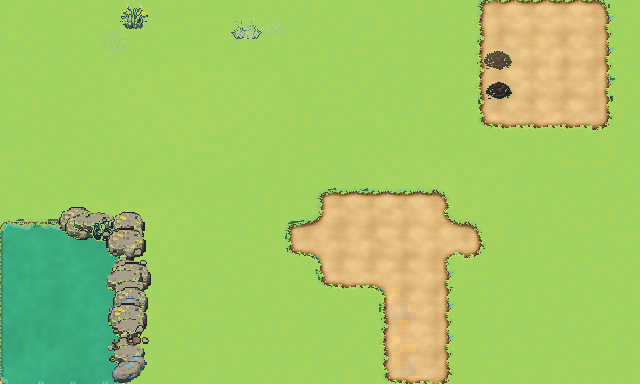
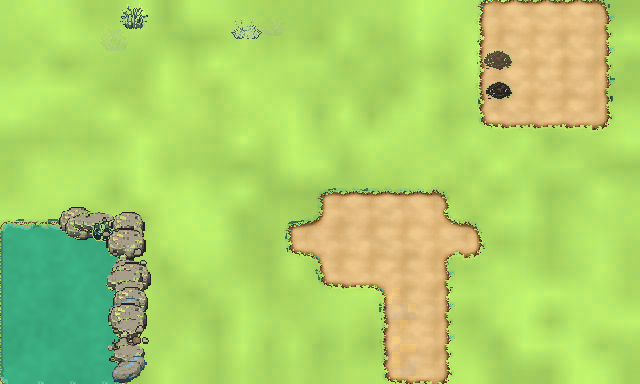
Grass: sun-pool dapple — the ref's greeny-yellow is a value SPREAD
The ref field isn't a brighter flat color: lit grass swings to
(217,242,102) near-yellow-white while shade stays deep. Our grass
was a compressed mid-lime.

- ramps: v_target .85->.90, h_to ->.225 (more yellow), gate v_max .95
- regrade: new optional 'dapple' — seeded low-res noise upsampled
  bilinear = soft organic sun pools stamped AFTER the toward-lerp
  (the lerp compresses spread, so pools must be applied post-transfer)
- file now measures (176,223,101) vs ref (174,216,103); on-screen
  post-grade costs ~10% value — intentional headroom

diff --git a/tools/tb_family_regrade.py b/tools/tb_family_regrade.py
@@ -55,6 +55,20 @@ def transfer(h, s, v, m, p):
         nv = v + (p["v_target"] - v) * p["v_amt"]
         ns = np.minimum(s + p["s_add"], p["s_max"])
     nh = h + (p["h_to"] - h) * p["h_amt"]
+    # sun-pool dapple: the ref's grass swings shade->near-yellow-white;
+    # a "toward" lerp compresses internal spread, so the pools get
+    # stamped back on AFTER the lerp (seeded blocky cells = pixel grammar)
+    if "dapple" in p:
+        d = p["dapple"]
+        cell, amp = d["cell"], d["amp"]
+        lo = np.random.default_rng(d["seed"]).random(
+            (max(2, nv.shape[0] // cell + 1), max(2, nv.shape[1] // cell + 1)))
+        # bilinear-upsampled low-res noise = soft organic sun pools,
+        # not an 8px checkerboard; ground is painted so soft is right
+        nse = np.asarray(Image.fromarray((lo * 255).astype(np.uint8))
+                         .resize((nv.shape[1], nv.shape[0]), Image.BILINEAR),
+                         dtype=float) / 255.0
+        nv = nv + np.clip(nse - 0.42, -0.5, 0.58) * 2.0 * amp   # warm-biased
     return nh % 1.0, np.clip(ns, 0, 1), np.clip(nv, 0, 1)
 
 
